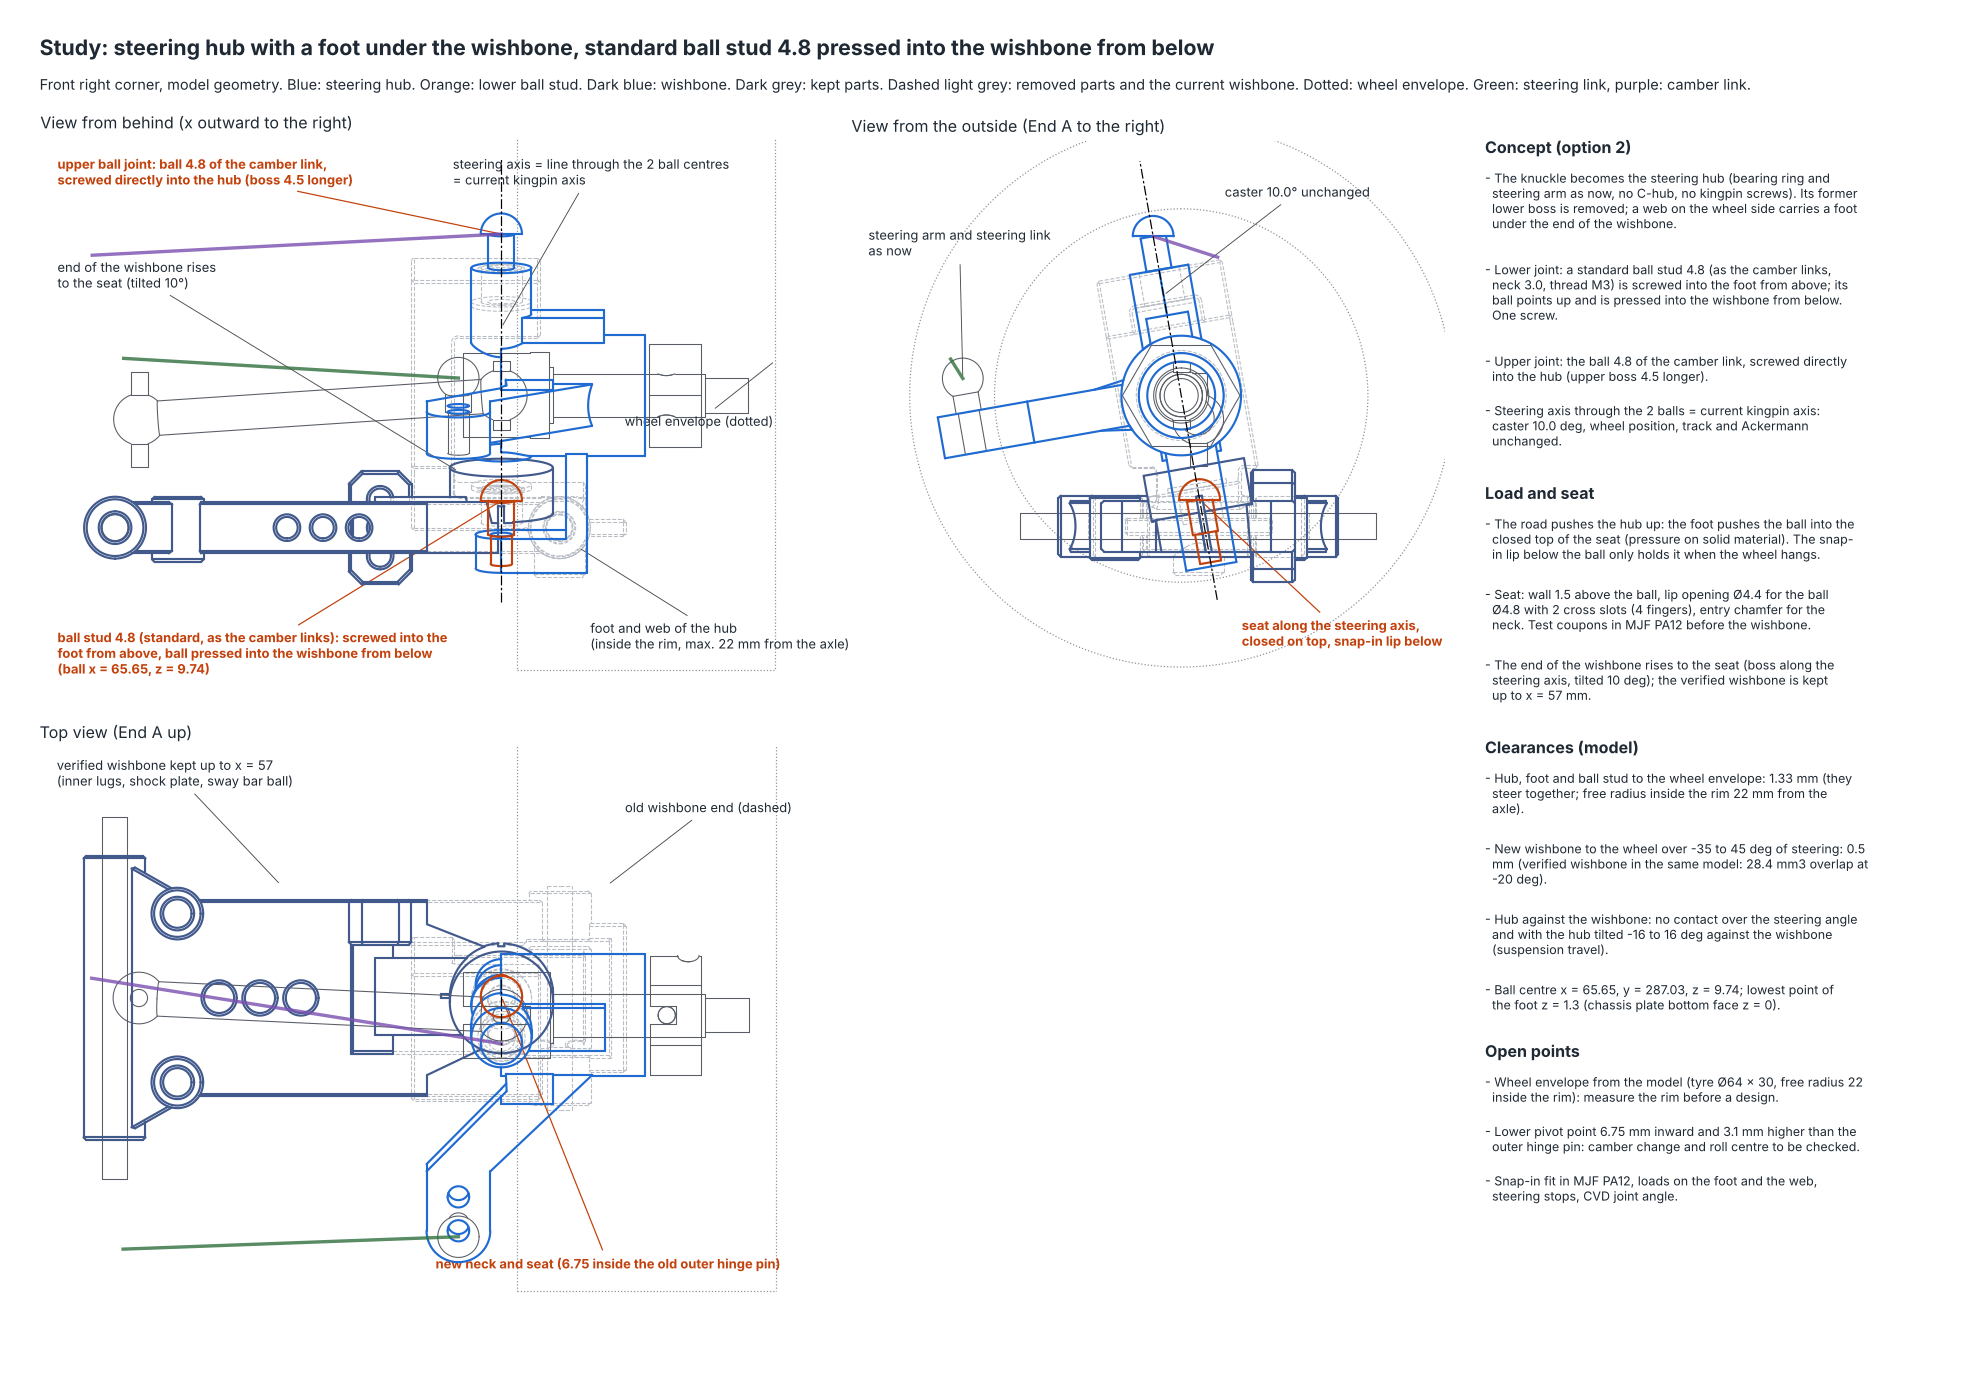
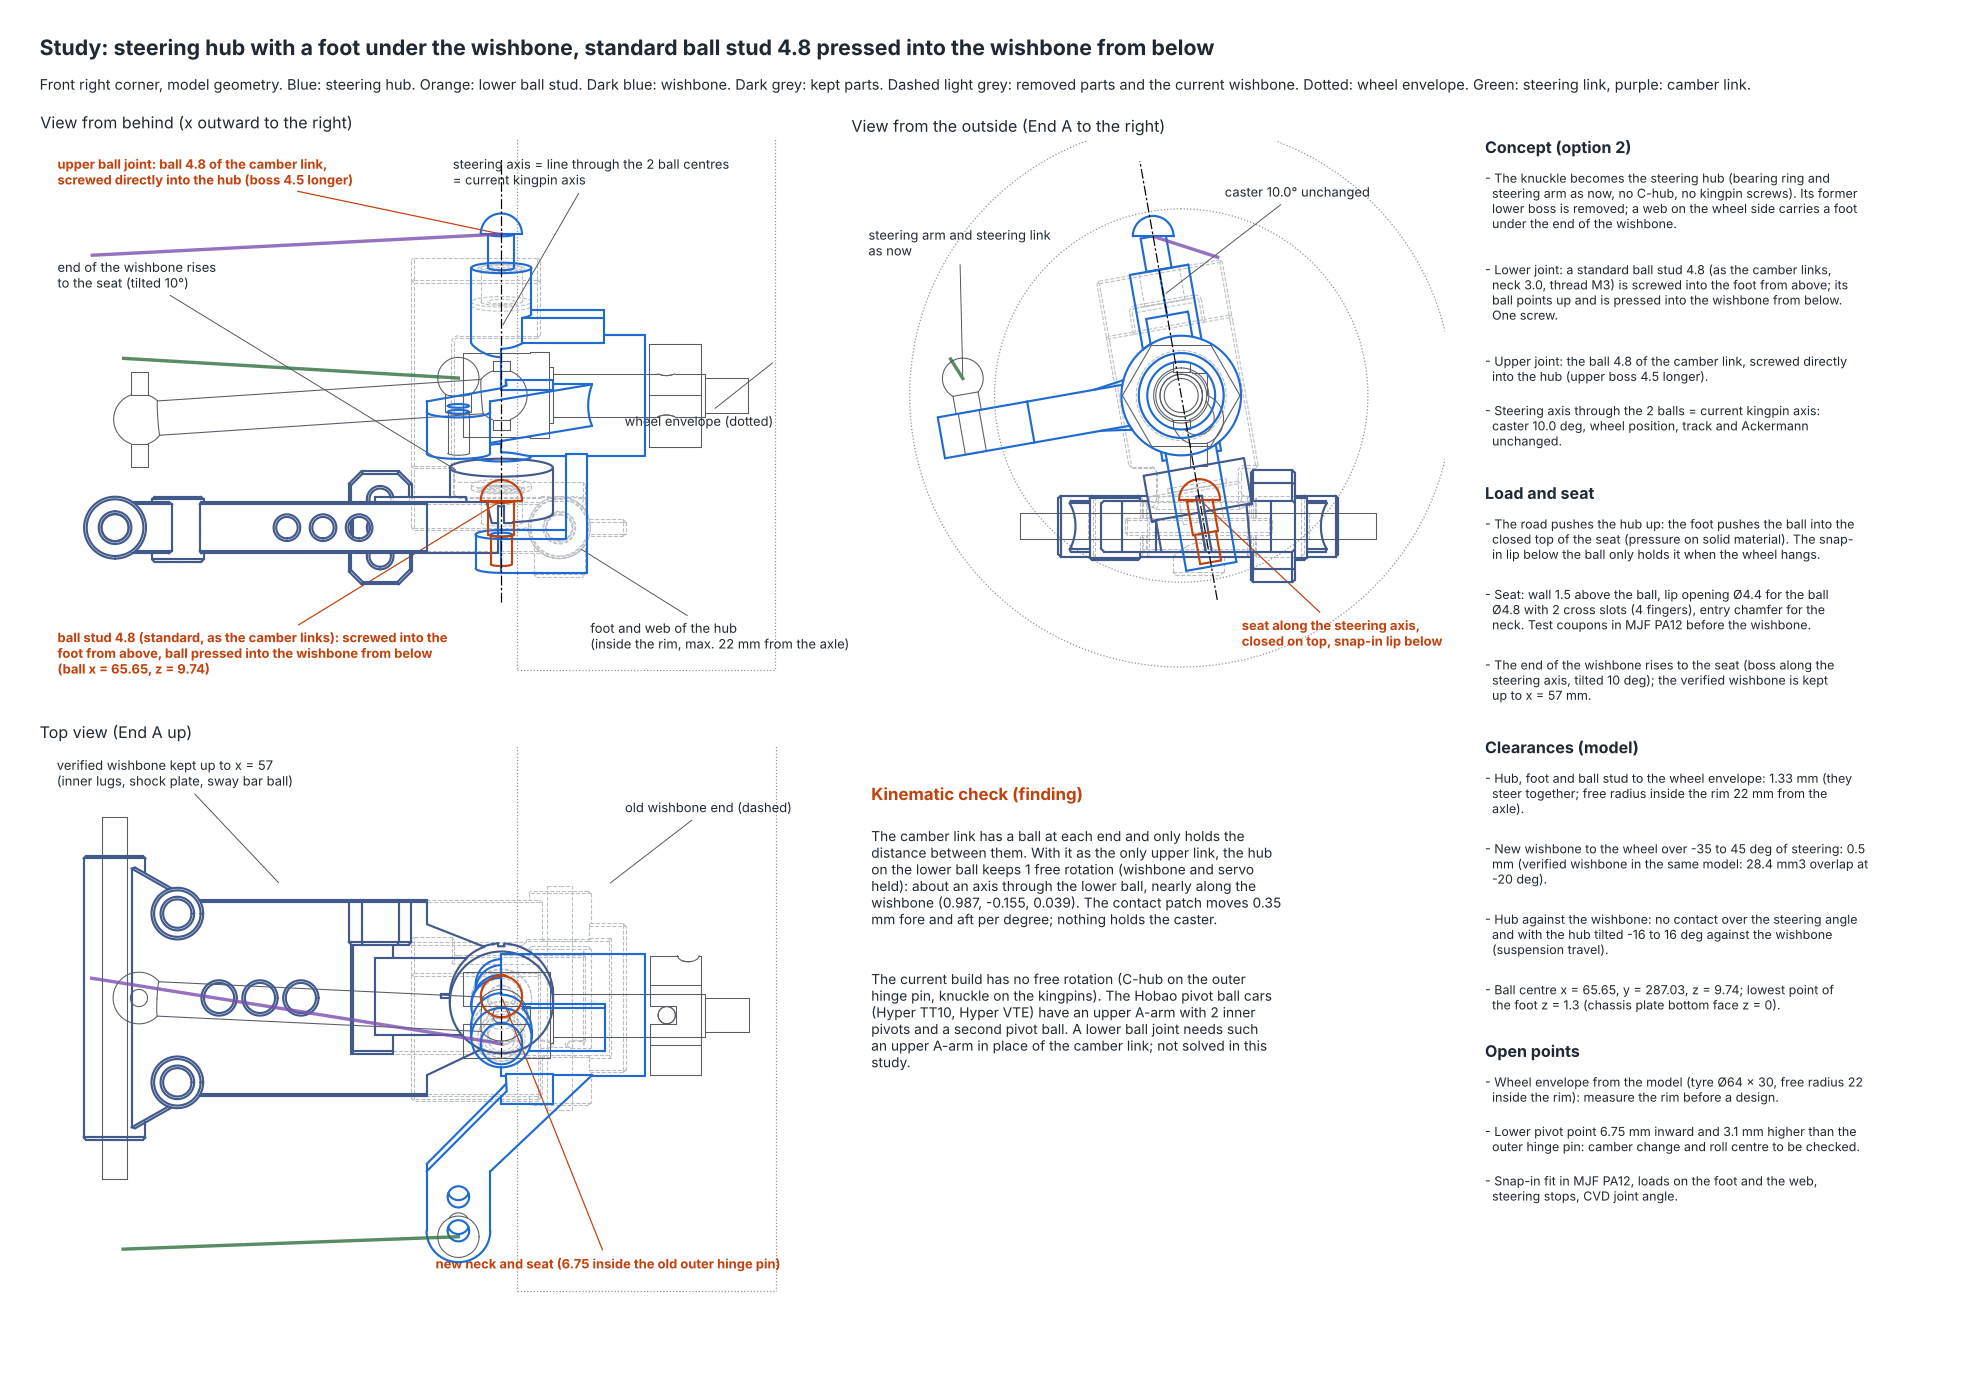
Study steering hub: kinematic check, lower ball joint with camber link leaves the caster free
The Hobao Hyper TT10 and Hyper VTE (drawings from the owner) hold the hub on
pivot balls that sit in the hub, with a screw into the arm, but both cars
have an upper A-arm with a second pivot ball. With the camber link as the
only upper link, the hub on one lower ball keeps 1 free rotation about an
axis nearly along the wishbone (contact patch 0.35 mm fore and aft per
degree, wishbone and servo held). Option 2 therefore does not hold the
caster. New function free_rotation in the study script; result in the
results file, finding in the sketch, the readme and the session summary.

Claude-Session: https://claude.ai/code/session_012MJxxF9M8vwMjWFzyuC18V

Changed region(s): [[0.4313, 0.5498, 0.647, 0.672], [0.4313, 0.7025, 0.647, 0.7636]]

diff --git a/cad/studies/steering_hub/generate_steering_hub_study.py b/cad/studies/steering_hub/generate_steering_hub_study.py
@@ -14,6 +14,9 @@ caster of 10 deg, the wheel position, the track and the Ackermann stay as they a
   verified wishbone is kept up to x = X_CUT (inner lugs, shock plate, sway bar ball, droop bosses).
 * Wheel: the solid tyre model (cylinder 64 x 30) contains the parts inside the rim, so the study uses an envelope: a
   ring from the free radius inside the rim (RIM_R, as the verified wishbone end uses now) to the tyre radius.
+Kinematic finding: with the camber link as the only upper link, a ball joint at the bottom leaves the hub free to turn
+about an axis along the wishbone through the ball (caster not held, see free_rotation). A lower ball joint needs an
+upper A-arm with 2 inner pivots in place of the camber link; this study does not solve it.
 Checks: hub, foot and ball stud to the wheel envelope (they steer together); new and verified wishbone to the wheel
 turned about the steering axis over the free angles; hub turned against the wishbone (steering) and tilted against it
 about the ball (suspension travel); distances to the CVD drive shaft, the axle and the chassis plate.
@@ -69,6 +72,9 @@ TYRE_IN, TYRE_W, TYRE_R = 67.5, 30.0, 32.0
 X_CUT = 57.0           # the verified wishbone is kept up to this x
 STEER = (-35.0, 45.0)  # free angles of the knuckle (right side)
 TILT = (-16.0, 16.0)   # tilt of the hub against the wishbone about the ball (suspension travel), checked
+# centres of the link balls (chassis coordinates, from the assembly): inner end of the steering link, ball of the
+# steering arm, inner end of the camber link
+S_BALL, K_BALL, T_BALL = (21.7, 257.69, 26.3), (60.65, 259.13, 24.01), (18.05, 289.16, 38.3)
 COL_STUD, TXT, ANN = (0.85, 0.45, 0.2), "#1f2933", "#c2410c"
 
 
@@ -155,7 +161,28 @@ def checks(geo, parts):
     for n in ("running_gear_CVD_drive_shaft_End_A_right", "chassis_plate"):
         out[f"wishbone to {n} mm"] = round(geo["arm"].distance(parts[n]), 2)
         out[f"hub to {n} mm"] = round(geo["hub"].distance(parts[n]), 2)
+    out.update(free_rotation(geo))
     return out
+
+
+def free_rotation(geo):
+    """Kinematics with the wishbone and the servo held: the hub can turn about the lower ball in 3 directions; the
+    camber link (upper ball on a sphere about its inner end) and the steering link (ball of the steering arm on a sphere
+    about its inner end) each block 1 direction. The remaining direction (null space of the 2 conditions) is a free
+    rotation of the hub; the current build (C-hub on the outer hinge pin, knuckle on the kingpins) has none."""
+    B, U = geo["B_low"], np.asarray(geo["B_top"], float)
+    T, S, K = (np.array(v, float) for v in (T_BALL, S_BALL, K_BALL))
+    u = lambda v: v / np.linalg.norm(v)
+    A = np.array([np.cross(U - B, u(U - T)), np.cross(K - B, u(K - S))])
+    sv = np.linalg.svd(A)
+    w = sv[2][-1] * np.sign(sv[2][-1][np.argmax(np.abs(sv[2][-1]))])
+    J = geo["J"]
+    patch = np.array([TYRE_IN + TYRE_W / 2, J[1], J[2] - TYRE_R])                 # contact patch of the tyre
+    d = np.cross(w, patch - B) * np.pi / 180.0
+    return {"free rotation of the hub about the lower ball, wishbone and servo held: number of free directions":
+            int(3 - np.sum(sv[1] > 1e-6 * sv[1][0])),
+            "free rotation: axis (x, y, z)": [round(float(v), 3) for v in w],
+            "free rotation: movement of the contact patch per degree (x, y, z) mm": [round(float(v), 3) for v in d]}
 
 
 # ------------------------------------------------------------------ sketch (3 views and notes)
@@ -169,7 +196,7 @@ def sketch(geo, chk, parts, path):
     removed = [parts[n] for n in ("running_gear_C-hub_End_A_right", "running_gear_outer_hinge_pin_3x26_End_A_right",
                                   "front_wishbone_End_A_right", "running_gear_guide_sleeves_End_A_right",
                                   "running_gear_kingpin_washers_End_A_right")]
-    S_ball, K_ball, T_ball = np.array([21.7, 257.69, 26.3]), np.array([60.65, 259.13, 24.01]), np.array([18.05, 289.16, 38.3])
+    S_ball, K_ball, T_ball = np.array(S_BALL), np.array(K_BALL), np.array(T_BALL)
     views = {"rear": TD.View((0, -1, 0), (1, 0, 0), (0, 0), (0, 0, 0), 1.0),
              "side": TD.View((1, 0, 0), (0, 1, 0), (0, 0), (0, 0, 0), 1.0),
              "top": TD.View((0, 0, 1), (1, 0, 0), (0, 0), (0, 0, 0), 1.0)}
@@ -265,6 +292,21 @@ def sketch(geo, chk, parts, path):
             "to be checked.",
             "Snap-in fit in MJF PA12, loads on the foot and the web, steering stops, CVD joint angle."]),
     ]
+    ax_k = fig.add_axes([0.44, 0.03, 0.29, 0.40])
+    ax_k.axis("off")
+    w = "(" + ", ".join(f"{v:g}" for v in chk["free rotation: axis (x, y, z)"]) + ")"
+    d = abs(chk["free rotation: movement of the contact patch per degree (x, y, z) mm"][1])
+    ax_k.text(0.0, 1.0, "Kinematic check (finding)", fontsize=11, fontweight="bold", color=ANN, va="top")
+    ax_k.text(0.0, 0.92, textwrap.fill(
+        "The camber link has a ball at each end and only holds the distance between them. With it as the only upper "
+        "link, the hub on the lower ball keeps 1 free rotation (wishbone and servo held): about an axis through the "
+        f"lower ball, nearly along the wishbone {w}. The contact patch moves {d:.2f} mm fore and aft per degree; "
+        "nothing holds the caster.", 62), fontsize=9, color=TXT, va="top")
+    ax_k.text(0.0, 0.66, textwrap.fill(
+        "The current build has no free rotation (C-hub on the outer hinge pin, knuckle on the kingpins). The Hobao "
+        "pivot ball cars (Hyper TT10, Hyper VTE) have an upper A-arm with 2 inner pivots and a second pivot ball. "
+        "A lower ball joint needs such an upper A-arm in place of the camber link; not solved in this study.", 62),
+        fontsize=9, color=TXT, va="top")
     y = 1.0
     for head, items in notes:
         txt.text(0.0, y, head, fontsize=10.5, fontweight="bold", color=TXT, va="top")

diff --git a/cad/studies/steering_hub/readme.md b/cad/studies/steering_hub/readme.md
@@ -2,9 +2,12 @@
 
 Owner (2026-11-23): the C-hub and the steering knuckle become one part (steering hub), mounted to the front wishbone with one screw, free to steer; the wishbone gets the matching shape. The owner chose option 2: a standard ball stud is screwed into a foot of the hub under the end of the wishbone, and its ball is pressed into the wishbone (nylon PA12, MJF) from below. The new parts must not touch the tyre. The study is not part of the build: the parts of the build and the assembly `cad/assembly/speedrun_chassis_T410R.step` are not changed.
 
+**Kinematic finding:** with the camber link as the only upper link, the lower ball joint leaves the hub free to turn about an axis along the wishbone (the caster is not held, see [kinematic check](#kinematic-check)). The design works only with an upper A-arm in place of the camber link; this study does not solve it.
+
 ## Table of contents
 * [Design](#design)
 * [Why ball joints](#why-ball-joints)
+* [Kinematic check](#kinematic-check)
 * [Lower ball joint and seat](#lower-ball-joint-and-seat)
 * [Wheel clearance](#wheel-clearance)
 * [Checks](#checks)
@@ -30,8 +33,15 @@ Owner (2026-11-23): the C-hub and the steering knuckle become one part (steering
 * Edges: not treated (concept).
 
 ## Why ball joints
-* A screw with a sleeve or a bearing is a pure pivot about the steering axis: the hub can steer but cannot tilt against the wishbone. With the camber link at the top the suspension locks: at 5 degrees of wishbone travel the camber link would have to be 2.7 mm shorter. A ball joint allows steering and the movement of the suspension; it is still one screw.
-* With 2 ball joints the caster follows from the positions of the 2 balls (lower ball ahead of the upper ball); lifting the whole wishbone at the front would not change it. Only the end of the wishbone is tilted by 10 degrees, so the seat lies along the steering axis: the hub steers about the axis of the ball stud, the ball only tilts with the suspension.
+* A screw with a sleeve or a bearing is a pure pivot about the steering axis: the hub can steer but cannot tilt against the wishbone. With the camber link at the top the suspension locks: at 5 degrees of wishbone travel the camber link would have to be 2.7 mm shorter. A ball joint allows steering and the movement of the suspension, but it also allows a third rotation, which the camber link does not hold (see [kinematic check](#kinematic-check)).
+* With 2 ball joints the caster follows from the positions of the 2 balls (lower ball ahead of the upper ball); lifting the whole wishbone at the front would not change it. Only the end of the wishbone is tilted by 10 degrees, so the seat lies along the steering axis: the hub steers about the axis of the ball stud, the ball only tilts with the suspension. This holds only if the upper ball is held fore and aft, which the camber link does not do.
+
+## Kinematic check
+* The hub on the lower ball can turn in 3 directions. With the wishbone and the servo held, the camber link and the steering link each block 1 direction: each link has a ball at both ends and only holds the distance between its 2 balls.
+* 1 direction remains free: a rotation about an axis through the lower ball, nearly along the wishbone (axis x, y, z = 0.987, −0.155, 0.039). Per degree the contact patch of the tyre moves 0.35 mm fore and aft. Braking forces and bumps turn the hub about this axis until it touches the wishbone; the caster is not held.
+* The current build has no free rotation: the C-hub turns only about the outer hinge pin, the knuckle only about the kingpins (2 rotations, 2 links).
+* The Hobao cars with pivot ball suspension (Hyper TT10, Hyper VTE) have an upper A-arm with 2 inner pivots and a second pivot ball instead of a camber link. The upper A-arm holds the upper ball fore and aft and therefore the caster.
+* Consequence: a lower ball joint (this study or the Hobao principle with the ball in the hub) needs an upper A-arm in place of the camber link, with 2 pivots on the front shock tower. The check is computed by `free_rotation` in the script.
 
 ## Lower ball joint and seat
 * **Load:** the road pushes the hub up, the spring pushes the wishbone down. With the foot under the end of the wishbone, the foot pushes the ball up into the closed top of the seat (pressure on solid material, wall 1.5 mm above the ball). The snap-in lip below the ball only holds the ball when the wheel hangs.
@@ -58,8 +68,10 @@ Results of `generate_steering_hub_study.py` (`steering_hub_study_results.json`):
 | Wishbone and hub to the CVD drive shaft | 3.73 mm and 2.07 mm |
 | Wishbone to the chassis plate | 0.60 mm (verified part of the wishbone) |
 | Lowest point of the foot | z = 1.3 mm (bottom face of the chassis plate z = 0, ride height 10 mm) |
+| Free rotation of the hub about the lower ball (wishbone and servo held) | 1 direction: axis (0.987, −0.155, 0.039), contact patch 0.35 mm fore and aft per degree (current build: none). The design does not hold the caster |
 
 ## Open points
+* **Upper link:** the camber link does not hold the caster with a lower ball joint (see [kinematic check](#kinematic-check)). An upper A-arm with 2 pivots on the front shock tower and a second ball joint is needed; not designed.
 * **Rim:** the wheel envelope is taken from the model. Measure the rim (inner diameter at the inner edge, depth from the inner edge to the hex) before a design.
 * **Kinematics:** the lower pivot point lies 6.75 mm further inward and 3.1 mm higher than the outer hinge pin (z = 9.74 instead of 6.6 mm): camber change, roll centre and bump steer to be checked and adjusted with the camber link.
 * **Snap-in fit:** test pieces in MJF PA12 before the wishbone; behaviour over time (play, wear).

diff --git a/project/session_summary.md b/project/session_summary.md
@@ -135,7 +135,7 @@ for f in subprocess.run(["git", "diff", "--name-only", "--diff-filter=M"], captu
 * **Chamfers on the servo mount** (owner, 2026-11-22): top plate, fixed post and floating post get chamfer 0.3 on each sharp outer edge (chamfers only, `ET.treat` in `steering()`; the corner chamfers of the top plate as before): 44, 46 and 24 chamfers, no sharp edge left. The servo mount stays verified (function unchanged: only edges). Drawings SM-T, SM-F, SM-L: edges "chamfer 0.3 (modelled)" (before: break 0.1 to 0.2).
 * **Chamfers on the battery tray** (owner, 2026-11-22): chamfer 0.3 on each sharp outer edge, chamfers only (new parameter `edge_chamfer` [0.3, 120.0] in `battery_tray_parameters.json`, `ET.treat` at the end of `tray_solid()`): 162 chamfers 0.3, 5 with 0.2, 1 edge of 0.7 at the rear end face (floor and end stop) stays sharp; volume -0.1 cm3 (24.1 cm3). The chamfers 0.8 at the tops of the strap slots stay. The tray stays verified (only edges). Technical drawing: edges "chamfer 0.3 (modelled)".
 * **Chamfers on the pivot blocks** (owner, 2026-11-23): chamfer 0.3 on each sharp outer edge, chamfers only (new parameter `edge_chamfer` [0.3, 120.0] in `pivot_block_parameters.json`, `ET.treat` at the end of `block_solid()`, report `EDGE_REPORT`): per block 22 chamfers 0.3, 2 with 0.2, 4 with 0.1, no sharp edge left. The known interference of the long block with the outer chamfer of the lower bulkhead at End B drops from 0.82 to 0.34 mm³; clearances to the lower bulkhead 2.37 (End B inner), 1.27 (End A inner), 0.95 (End A outer). The blocks stay verified (only edges). Drawings PB-L, PB-S: edges "chamfer 0.3 (modelled)" (before: break 0.1 to 0.2).
-* **Study steering hub** (owner, 2026-11-23; `cad/studies/steering_hub`, not part of the build): C-hub and knuckle as one part (steering hub) on 2 ball joints on the current kingpin axis (caster 10.0, wheel position unchanged). A screw with a sleeve or bearing (first idea of the owner) would lock the suspension with the camber link (5 deg travel: camber link 2.7 shorter), so the lower joint is a ball joint. Owner: end of the wishbone tilted 10 deg (seat along the steering axis), ball pressed into the PA12 wishbone, standard parts; option 2 chosen: a standard ball stud 4.8 (as the camber links) screwed into a foot of the hub under the wishbone end, ball up, pressed into the wishbone from below (the wheel load pushes the ball into the closed top of the seat; snap-in lip with 2 cross slots below). The verified wishbone is kept up to x = 57, the new neck rises to the seat. Wheel envelope (owner: not much space): ring from 22 (radius of the verified wishbone end inside the wheel) to 32 mm from the axle; the solid tyre cylinder of the other checks contains all corner parts. Results: hub and foot 1.33 mm to the envelope, new wishbone 0.5 mm over -35 to +45 deg of steering (verified wishbone up to 28.4 mm3 overlap in the same model), no contact hub/wishbone over steering and +-16 deg tilt. Open: rim measurement, kinematics (lower pivot 6.75 inward, 3.1 higher), snap fit test pieces, strength of web and foot, steering stops. Earlier sketches (option 1: ball under the seat, flangeless ball) are not kept.
+* **Study steering hub** (owner, 2026-11-23; `cad/studies/steering_hub`, not part of the build): C-hub and knuckle as one part (steering hub) on 2 ball joints on the current kingpin axis (caster 10.0, wheel position unchanged). A screw with a sleeve or bearing (first idea of the owner) would lock the suspension with the camber link (5 deg travel: camber link 2.7 shorter), so the lower joint is a ball joint. Owner: end of the wishbone tilted 10 deg (seat along the steering axis), ball pressed into the PA12 wishbone, standard parts; option 2 chosen: a standard ball stud 4.8 (as the camber links) screwed into a foot of the hub under the wishbone end, ball up, pressed into the wishbone from below (the wheel load pushes the ball into the closed top of the seat; snap-in lip with 2 cross slots below). The verified wishbone is kept up to x = 57, the new neck rises to the seat. Wheel envelope (owner: not much space): ring from 22 (radius of the verified wishbone end inside the wheel) to 32 mm from the axle; the solid tyre cylinder of the other checks contains all corner parts. Results: hub and foot 1.33 mm to the envelope, new wishbone 0.5 mm over -35 to +45 deg of steering (verified wishbone up to 28.4 mm3 overlap in the same model), no contact hub/wishbone over steering and +-16 deg tilt. Open: rim measurement, kinematics (lower pivot 6.75 inward, 3.1 higher), snap fit test pieces, strength of web and foot, steering stops. Earlier sketches (option 1: ball under the seat, flangeless ball) are not kept. Kinematic check added (same day, after the drawings of the Hobao Hyper TT10 and Hyper VTE from the owner, both with the ball in the hub and a screw into the arm): with the camber link as the only upper link, a lower ball joint leaves the hub 1 free rotation about an axis nearly along the wishbone (contact patch 0.35 mm fore and aft per degree); the caster is not held. The Hobao cars have an upper A-arm with a second pivot ball; a lower ball joint (option 2 or the Hobao principle) needs one too. Option 2 does not work with the camber link (study readme and script corrected, function `free_rotation`).
 
 ## Current geometry (key values)
 | Value | Model |
